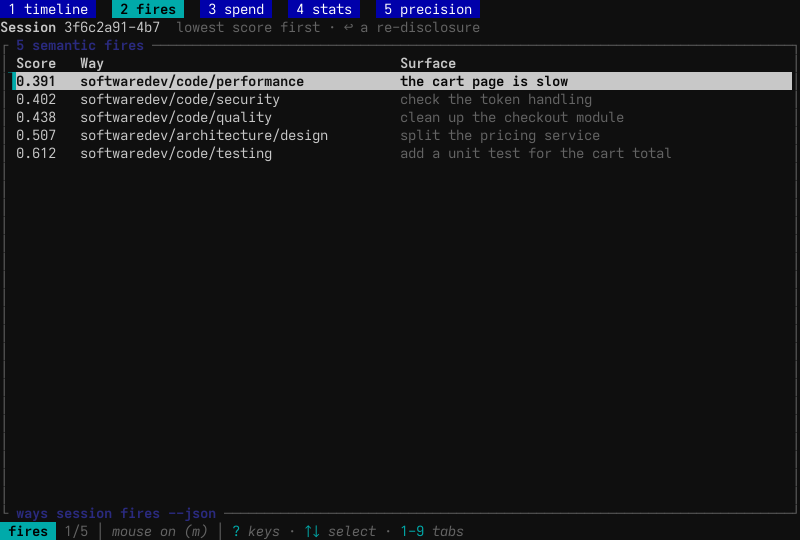
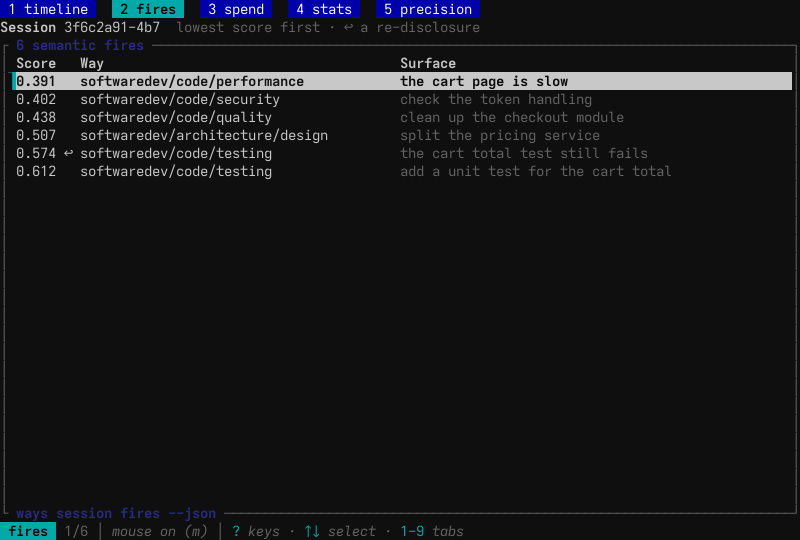
docs(cli): address review: screen keys by screen, per-verb flags, ↩ in fires text
- The shared-keys table and the Alt chords cover the session and
  projects screens. The settings screens take ? only, and type Alt
  chords into a filter or an edit.
- A 4xx other than 408 costs nothing.
- The ways session Run-from paragraph names which verbs take
  --project and --all, and what reset --all means.
- Plain-text `ways session fires` marks a re-disclosure ↩, as the
  screen does; the JSON keeps redisclosed. A test pins both.
- The timeline fit test adds a mid-session case that draws the
  forecast's arrows, markers and scale.
- Nits: "checked again", colour roles in the settings tree, no
  shell-completion claim.

The screenshot tooling is committed under docs/images/ways/tools
(fixture.py, markers.sh, shots.sh, record.sh, env.sh), with relative
paths and its scratch tree under the ignored target/. The fires shot
is retaken from it with a re-disclosure row; the timeline and
session-ways shots reproduce byte for byte.

Changed region(s): [[0.5, 0.2667, 0.8438, 0.3259], [0.0938, 0.2963, 0.3438, 0.3259], [0.0, 0.2667, 0.0938, 0.3259]]

diff --git a/docs/images/ways/tools/fixture.py b/docs/images/ways/tools/fixture.py
@@ -1,0 +1,158 @@
+#!/usr/bin/env python3
+"""A synthetic HOME and XDG tree for the ways-cli reference screenshots.
+
+Project /home/dev/shop has four sessions. Session A fires ways in main and
+five subagents (a code-reviewer, a workflow member, two general-purpose
+agents and one with no meta.json), with every outcome the timeline marks.
+The judge's calls spread over several days for the spend tab. A second and
+third project fill the projects screen. No real ids or paths appear.
+
+Usage: fixture.py <dir>   (shots.sh runs it; <dir>/fx is rebuilt)
+"""
+import json, os, shutil, sys, time
+from datetime import datetime, timedelta
+
+REPO = os.path.abspath(os.path.join(os.path.dirname(__file__), "../../../.."))
+F = os.path.join(os.path.abspath(sys.argv[1]), "fx")
+shutil.rmtree(F, ignore_errors=True)
+HOME = os.path.join(F, "home")
+for d in ["home/.local/state/agent-ways", "home/.config/agent-ways", "home/.local/share", "home/.cache/agent-ways/agent", "run"]:
+    os.makedirs(os.path.join(F, d), exist_ok=True)
+
+PROJ = "/home/dev/shop"
+SLUG = "-home-dev-shop"
+A = "3f6c2a91-4b7e-4d10-9c55-2e8b7a1d0f42"
+B = "8a0d5e17-6c2f-4a93-b1e4-7f3c9d2a6b05"
+C = "c41b9f62-0e8d-4f37-a2c6-5d1e8b3a9f70"
+D = "e92f3a08-7d4c-4b16-8e5a-1c6b0d9f2e33"
+
+events = []
+
+def ev(ts, event, sid=A, proj=PROJ, **kw):
+    e = {"ts": ts, "event": event, "project": proj, "session": sid}
+    e.update({k: v for k, v in kw.items() if v is not None})
+    events.append(e)
+
+def fire(ts, way, trig, agent="main", sid=A, score=None, surface=None):
+    ev(ts, "way_fired", sid, way=way, trigger=trig, agent_id=agent,
+       fire_score=score, surface=surface)
+
+def judge(ts, way, p, verdict, agent="main", sid=A):
+    ev(ts, "way_judged", sid, way=way, p_yes=p, verdict=verdict, agent_id=agent, threshold="0.30",
+       mode="shadow" if verdict == "would_block" else "enforce", engine="anthropic",
+       model="claude-haiku-4-5", judge_ms="412")
+
+def call(ts, sid, tin, tout, cost, src="provider"):
+    ev(ts, "judge_call", sid, input_tokens=str(tin), output_tokens=str(tout),
+       cost_usd=cost, cost_source=src)
+
+CR = "a1b2c3d4e5f6a7b8c"   # code-reviewer
+WF = "a9e8d7c6b5a4f3e2d"   # workflow member audit:judge
+G1 = "a3897f0e1d2c3b4a5"   # general-purpose
+G2 = "a5c21e0f9d8c7b6a5"   # general-purpose
+UN = "a0123456789abcdef"   # no meta.json
+
+day = "2026-10-01T"
+ev(day + "10:00:00Z", "session_start")
+fire(day + "10:00:05Z", "softwaredev/code/testing", "semantic:embedding:en", score="0.612", surface="add a unit test for the cart total")
+call(day + "10:00:05Z", A, 1850, 12, "0.0021")
+fire(day + "10:02:00Z", "softwaredev/docs/adr", "file")
+fire(day + "10:04:00Z", "softwaredev/code/quality", "semantic:embedding:en", score="0.438", surface="clean up the checkout module")
+call(day + "10:04:00Z", A, 2210, 14, "0.0025")
+ev(day + "10:06:00Z", "check_fired", check="softwaredev/docs/adr", trigger="file", agent_id="main")
+ev(day + "10:06:01Z", "check_fired", check="softwaredev/docs/adr", trigger="file", agent_id="main")
+ev(day + "10:06:02Z", "check_fired", check="softwaredev/docs/adr", trigger="file", agent_id="main")
+ev(day + "10:06:03Z", "check_fired", check="softwaredev/docs/adr", trigger="file", agent_id="main")
+ev(day + "10:06:04Z", "check_fired", check="softwaredev/docs/adr", trigger="file", agent_id="main")
+fire(day + "10:08:00Z", "softwaredev/delivery/review", "keyword", agent=CR)
+fire(day + "10:08:01Z", "softwaredev/docs/adr", "file", agent=CR)
+fire(day + "10:08:02Z", "softwaredev/code/testing", "keyword", agent=WF)
+fire(day + "10:10:00Z", "softwaredev/environment/deps", "bash", agent=G1)
+fire(day + "10:10:01Z", "softwaredev/environment/deps", "bash", agent=G2)
+fire(day + "10:10:02Z", "softwaredev/code/security", "semantic:embedding:en", agent=UN, score="0.402", surface="check the token handling")
+call(day + "10:10:02Z", A, 1990, 11, "0.0022")
+fire(day + "10:12:00Z", "softwaredev/architecture/design", "semantic:embedding:en", score="0.507", surface="split the pricing service")
+judge(day + "10:12:00Z", "softwaredev/architecture/design", "0.880", "pass")
+call(day + "10:12:00Z", A, 2400, 13, "0.0027")
+ev(day + "10:14:00Z", "way_redisclosed", way="softwaredev/code/testing", trigger="semantic:embedding:en", agent_id="main",
+   fire_score="0.574", surface="the cart total test still fails")
+judge(day + "10:14:00Z", "softwaredev/code/performance", "0.140", "would_block")
+fire(day + "10:14:00Z", "softwaredev/code/performance", "semantic:embedding:en", score="0.391", surface="the cart page is slow")
+judge(day + "10:14:01Z", "itops/incident", "0.050", "block")
+call(day + "10:14:01Z", A, 2600, 12, "0.0029")
+call(day + "10:14:01Z", A, 0, 0, None, "unknown")
+ev(day + "10:14:02Z", "way_suppressed", way="softwaredev/docs/adr", trigger="file", agent_id=CR, kind="way", reason="refire")
+ev(day + "10:14:02Z", "way_suppressed", way="meta/knowledge", trigger="keyword", agent_id="main", kind="way", reason="context_cap")
+ev(day + "10:14:03Z", "check_fired", check="softwaredev/docs/adr", trigger="file", agent_id=CR)
+
+# Other sessions: a few fires and judge calls on other days.
+for sid, d, n in [(B, "2026-09-27", 6), (C, "2026-09-29", 9), (D, "2026-10-02", 4)]:
+    ev(d + "T09:00:00Z", "session_start", sid)
+    for i in range(n):
+        t = f"{d}T09:{10 + i:02d}:00Z"
+        fire(t, ["softwaredev/code/testing", "softwaredev/delivery/commits", "softwaredev/docs/adr"][i % 3],
+             "semantic:embedding:en", sid=sid, score=f"{0.42 + i * 0.03:.3f}", surface="fix the failing build")
+        call(t, sid, 1700 + 90 * i, 12, f"{0.0019 + 0.0001 * i:.4f}")
+# Two older months for the month view.
+for d in ["2026-08-12", "2026-08-20", "2026-09-03", "2026-09-15"]:
+    call(d + "T12:00:01Z", "b05e7c3d-1a9f-4e62-8d40-6f2c1b8e9a17", 2100, 12, "0.0024")
+events.sort(key=lambda e: e["ts"])
+with open(os.path.join(F, "home/.local/state/agent-ways/events.jsonl"), "w") as f:
+    for e in events:
+        f.write(json.dumps(e) + "\n")
+
+# Transcripts: assistant turns carrying usage, for the token gauge.
+def transcript(slug, sid, start, turns, cwd, mtime=None, title=None):
+    pd = os.path.join(HOME, ".claude/projects", slug)
+    os.makedirs(pd, exist_ok=True)
+    path = os.path.join(pd, sid + ".jsonl")
+    t0 = datetime.fromisoformat(start.replace("Z", "+00:00"))
+    with open(path, "w") as f:
+        f.write(json.dumps({"type": "user", "sessionId": sid, "cwd": cwd, "timestamp": start,
+                            "message": {"role": "user", "content": title or "work on the shop"}}) + "\n")
+        for i in range(turns):
+            ts = (t0 + timedelta(seconds=60 * i + 30)).strftime("%Y-%m-%dT%H:%M:%S.000Z")
+            usage = {"input_tokens": 400, "cache_creation_input_tokens": 2000,
+                     "cache_read_input_tokens": 40000 + 1200 * i, "output_tokens": 600}
+            f.write(json.dumps({"type": "assistant", "sessionId": sid, "cwd": cwd, "timestamp": ts,
+                                "message": {"role": "assistant", "model": "claude-opus-4-5", "usage": usage,
+                                            "content": [{"type": "text", "text": "ok"}]}}) + "\n")
+    if mtime is not None:
+        os.utime(path, (mtime, mtime))
+    return path
+
+now = time.time()
+transcript(SLUG, A, "2026-10-01T10:00:00Z", 16, PROJ, now - 3 * 86400, "add a unit test for the cart total")
+transcript(SLUG, B, "2026-09-27T09:00:00Z", 8, PROJ, now - 6 * 86400, "fix the failing build")
+transcript(SLUG, C, "2026-09-29T09:00:00Z", 10, PROJ, now - 4 * 86400, "tidy the release notes")
+transcript(SLUG, D, "2026-10-02T09:00:00Z", 5, PROJ, now - 20, "wire the payment webhook")
+
+# Subagent meta for session A.
+sub = os.path.join(HOME, ".claude/projects", SLUG, A, "subagents")
+os.makedirs(os.path.join(sub, "workflows/wf_audit"), exist_ok=True)
+for aid, typ in [(CR, "code-reviewer"), (G1, "general-purpose"), (G2, "general-purpose")]:
+    json.dump({"agentType": typ, "description": "a task"}, open(os.path.join(sub, f"agent-{aid}.meta.json"), "w"))
+json.dump({"agentType": "workflow-subagent", "description": "audit:judge", "workflowPhase": "Audit"},
+          open(os.path.join(sub, f"workflows/wf_audit/agent-{WF}.meta.json"), "w"))
+
+# Two more projects for the projects screen.
+transcript("-home-dev-notes", "5b7e1c90-2d4a-4f68-9e13-0a8c6f2b4d71", "2026-09-20T14:00:00Z", 6, "/home/dev/notes",
+           now - 13 * 86400, "outline the onboarding guide")
+transcript("-home-dev-infra", "71d3e5a2-9f0b-4c86-a4d7-3e1b8c0f6a29", "2026-09-30T08:00:00Z", 12, "/home/dev/infra",
+           now - 3.5 * 86400, "rotate the staging certificates")
+os.makedirs(os.path.join(HOME, ".claude/projects/-home-dev-scratch"), exist_ok=True)
+
+# The shipped ways, so the why view shows a way's text.
+os.makedirs(os.path.join(HOME, ".claude/hooks"), exist_ok=True)
+os.symlink(os.path.join(REPO, "hooks/ways"), os.path.join(HOME, ".claude/hooks/ways"))
+
+# A cached model list, so the gate's model key offers a picker.
+models = [{"id": i, "name": n, "input_per_mtok": p, "output_per_mtok": q} for i, n, p, q in [
+    ("claude-haiku-4-5", "Claude Haiku 4.5", 1.0, 5.0),
+    ("claude-sonnet-4-5", "Claude Sonnet 4.5", 3.0, 15.0),
+    ("claude-opus-4-5", "Claude Opus 4.5", 5.0, 25.0),
+    ("claude-3-5-haiku-latest", "Claude Haiku 3.5", 0.8, 4.0),
+]]
+json.dump({"provider": "anthropic", "fetched_at": int(now), "models": models},
+          open(os.path.join(F, "home/.cache/agent-ways/agent/models-anthropic.json"), "w"), indent=1)
+print(len(events), "events")

diff --git a/tools/ways-cli/src/cmd/render.rs b/tools/ways-cli/src/cmd/render.rs
@@ -46,7 +46,8 @@ const AGENT_W: usize = 12;
 const COL_GAP: usize = 2;
 const INDENT: usize = 2;
 /// The room the token gauge leaves after its bar for its label,
-/// ` 100% (1000K / 1000K)`, so the gauge line fits the terminal.
+/// ` 100% (1000K / 1000K)`, so the gauge line fits the terminal. The bar
+/// keeps at least 10 cells, so below about 33 columns the line still wraps.
 const GAUGE_LABEL_W: usize = 21;
 
 /// Nominal visible width of the fixed Epoch…Agent block that trails the Way
@@ -743,17 +744,29 @@ mod tests {
             Fired { token_k: 900, window_k: 120 },
             Fired { token_k: 960, window_k: 400 },
         ];
+        // Mid-session, ways ahead of the cursor spread the forecast over a
+        // real zoom: its arrows, markers and scale labels are drawn.
+        let mid = [
+            Fired { token_k: 500, window_k: 40 },
+            Fired { token_k: 520, window_k: 120 },
+            Fired { token_k: 540, window_k: 400 },
+        ];
         for width in [80, 100, 160] {
             let layout = Layout::for_id_width_in(3, width);
-            let pos = compute_bar_positions_in(&ways, 1000, layout.bar_width);
-            let unique = unique_positions(&pos);
-            let mut out = String::new();
-            write_token_timeline(&mut out, &ways, &unique, 1000, 1000, &layout);
-            assert!(out.contains("100% (1000K / 1000K)"), "{out}");
-            assert!(out.contains("approaching = near threshold"), "{out}");
-            for line in out.lines() {
-                let w = agent_fmt::visible_len(line);
-                assert!(w <= width, "{w} columns at {width}: {line:?}");
+            for (ways, current, gauge) in [(&ways, 1000, "100% (1000K / 1000K)"), (&mid, 550, "55% (550K / 1000K)")] {
+                let pos = compute_bar_positions_in(ways, 1000, layout.bar_width);
+                let unique = unique_positions(&pos);
+                let mut out = String::new();
+                write_token_timeline(&mut out, ways, &unique, current, 1000, &layout);
+                assert!(out.contains(gauge), "{out}");
+                assert!(out.contains("approaching = near threshold"), "{out}");
+                if current == 550 {
+                    assert!(out.contains("Forecast") && out.contains("550K") && out.contains('^'), "{out}");
+                }
+                for line in out.lines() {
+                    let w = agent_fmt::visible_len(line);
+                    assert!(w <= width, "{w} columns at {width}: {line:?}");
+                }
             }
         }
     }

diff --git a/tools/ways-cli/src/cmd/introspect/mod.rs b/tools/ways-cli/src/cmd/introspect/mod.rs
@@ -427,7 +427,7 @@ fn fires_report(content: &str, session_id: &str, max_score: Option<f64>, limit: 
         max_score.map(|c| format!(" · ≤ {c:.2}")).unwrap_or_default(),
     );
     for f in rows.into_iter().take(shown) {
-        let mark = if f.redisclosed { "↻" } else { " " };
+        let mark = if f.redisclosed { "↩" } else { " " };
         let _ = writeln!(out, "  {:.3} {mark} {:<44}  {}", f.score, f.way, f.surface);
     }
     if shown < total {
@@ -479,6 +479,21 @@ mod fires_tests {
         assert!(matched.contains("2 kept out by the relevance judge in this session:\n  P(yes) 0.05 < 0.30  d/b\n  P(yes) 0.05 < 0.30  d/b/c (with d/b)\n"), "{matched}");
         let none = fires_report(LOG, "other", None, None, true);
         assert!(none.contains("No semantic fires") && none.contains("No way was kept out"), "{none}");
+    }
+
+    /// The text marks a re-disclosure `↩`, as the screen does; the JSON
+    /// carries it as `redisclosed`.
+    #[test]
+    fn a_re_disclosure_is_marked_as_the_screen_marks_it() {
+        let log = concat!(
+            r#"{"event":"way_fired","session":"s","ts":"2026-01-01T00:00:00Z","way":"d/a","trigger":"semantic:embedding:en","fire_score":"0.410","surface":"prompt"}"#, "\n",
+            r#"{"event":"way_redisclosed","session":"s","ts":"2026-01-01T00:09:00Z","way":"d/a","trigger":"semantic:embedding:en","fire_score":"0.520","surface":"again"}"#, "\n",
+        );
+        let text = fires_report(log, "s", None, None, false);
+        assert!(text.contains("  0.410   d/a") && text.contains("  0.520 ↩ d/a"), "{text}");
+        assert!(!text.contains('↻'), "{text}");
+        let j = fires_json(log, "s", None, None, false);
+        assert_eq!(j["fires"][1]["redisclosed"], true, "{j}");
     }
 
     /// The JSON form carries what the text does, as data: the fires lowest

diff --git a/docs/reference/ways-cli.md b/docs/reference/ways-cli.md
@@ -12,16 +12,18 @@ Bare `ways` prints this help, under the banner on a terminal. When the relevance
 
 `ways settings`, `ways session`, `ways projects`, `ways agent` and `ways target` open a full-screen view when run bare on a terminal. Each screen is a view over commands that print the same data with `--json`. A table's bottom border names its command, with the scope the screen is showing, so an agent can read what the operator sees. In a pipe, each prints its help or its default listing instead.
 
-All screens share these keys:
+The session and projects screens share these keys:
 
 | Key | Does |
 |---|---|
 | `1`-`9` | Show that tab. A click on a tab shows it too. |
 | `?` or F1 | Open the key help for the screen and the current tab. Any other key closes it. |
 | `m` | Turn mouse capture on or off. With it off, the terminal selects text and a middle-click pastes. With it on, Shift-drag selects text in most terminals. |
-| `q`, Esc, ^C | Quit. With unsaved work, the screen asks first. Esc first leaves an inner view, such as a filter or the why page. |
+| `q`, Esc, ^C | Quit. Esc first leaves an inner view, such as a filter or the why page. |
 
-While a text field has the keyboard, such as a filter or a value being edited, the shell's letter and digit keys take Alt: `M-1`-`M-9` for tabs and `M-m` for the mouse. The footer shows the form in effect.
+While the projects filter has the keyboard, these keys take Alt: `M-1`-`M-9` for tabs and `M-m` for the mouse, and F1 opens the key help. The footer shows the form in effect.
+
+The settings screens have their own keys, listed under [settings screens](#settings-screens). Their key help opens with `?` only, and in a filter or an edit every key, Alt chords included, is typed into the field.
 
 ## `ways status`
 
@@ -95,7 +97,7 @@ Each tab is a tree of settings on the left and the selected key's detail on the 
 | `w` or ^S | Review this tab's pending items, read-only. In the review, `a` applies the tab, `X` discards it, Tab goes to the next tab and Esc goes back. |
 | `X` | Discard this tab's pending items, after a y/n confirm. |
 
-In the tree, yellow marks a changed value, blue a value that differs from its default, grey a read-only row and orange a queued action. `[a]` marks a row with actions and `!` a lint finding.
+In the tree, colour marks a row's state: a changed value, a value that differs from its default, a read-only row, a queued action. The `?` help names the colours of the theme in use. `[a]` marks a row with actions and `!` a lint finding.
 
 Some tabs have keys of their own, which the footer names. On the ways tab, `s` sets up agent-ways in a project, and `p` switches between this project's and all projects' switched-off ways. On the install tab, `t` activates a target, `A` adds one and `p` shows a target's plan (see [`ways target`](#ways-target)). On the theme tab, ↑↓ previews a theme and Enter uses it.
 
@@ -171,7 +173,7 @@ What the judge does, what it sends and how to watch it are explained in [the rel
 
 **Tells you:** The judge's provider calls with their tokens and cost in USD, as a total and one row per day. `--by month`, `session` or `project` groups them otherwise. `--project <path>` keeps one project's calls, matched as [`ways session`](#ways-session) matches a project, and `--since <YYYY-MM-DD>` and `--session <id>` narrow further. `--json` prints the total, all four groupings and `covers_since`, with `cost_usd` null for a group whose calls all have unknown cost.
 
-The hook logs each call as one `judge_call` event in `events.jsonl`, beside the `way_judged` events the call produced. OpenRouter reports each call's cost, and a request a provider refuses with a 4xx costs nothing. An Anthropic call is priced from its tokens at the profile's `price_in_per_mtok` and `price_out_per_mtok`, which apply as a pair. When those are unset, it is priced at Claude Haiku 4.5's list price for that model. A call that returned no usage, such as one that hit its deadline, or one with no price for its model, has unknown cost: it is counted apart and never summed as zero. The events log keeps its newest 24 MiB, so older calls drop out; when that bounds the query, the text ends with the date of the earliest judge call the log still holds.
+The hook logs each call as one `judge_call` event in `events.jsonl`, beside the `way_judged` events the call produced. OpenRouter reports each call's cost, and a request a provider refuses with a 4xx other than 408 costs nothing. An Anthropic call is priced from its tokens at the profile's `price_in_per_mtok` and `price_out_per_mtok`, which apply as a pair. When those are unset, it is priced at Claude Haiku 4.5's list price for that model. A call that returned no usage, such as one that hit its deadline, or one with no price for its model, has unknown cost: it is counted apart and never summed as zero. The events log keeps its newest 24 MiB, so older calls drop out; when that bounds the query, the text ends with the date of the earliest judge call the log still holds.
 
 ```
 ways agent cost                          # spend per day
@@ -228,7 +230,7 @@ Bare `ways projects` on a terminal opens the projects screen. In a pipe it runs 
 
 **When:** Seeing which ways fired in a session and why, following the current session as ways fire, switching ways off for a session's subagents, or clearing a session's state.
 
-**Run from:** The project directory, which scopes the sessions to that project and the paths under it. An agent's worktree in `.claude/worktrees/` counts toward its project; `/a/foo-bar` is not part of `/a/foo`. The tune commands and `ways agent cost --project` match a project the same way. A relative `--project`, such as `.`, is resolved against the working directory. With no `--session`, the default session is the newest at the project itself, else the newest under it. `--project <dir>` picks another project and `--all` takes every project. When the current project cannot be detected, the command fails rather than reading every project.
+**Run from:** The project directory, which scopes the sessions to that project and the paths under it. An agent's worktree in `.claude/worktrees/` counts toward its project; `/a/foo-bar` is not part of `/a/foo`. The tune commands and `ways agent cost --project` match a project the same way. A relative `--project`, such as `.`, is resolved against the working directory. With no `--session`, the default session is the newest at the project itself, else the newest under it. `--project <dir>` picks another project on `replay`, `live`, `list`, `dump` and `fires`, and `--all` takes every project on `replay`, `list`, `dump` and `fires`. `ways` and `subagents` take neither: they read the current session or `--session`. On `reset`, `--all` means every session's state. When the current project cannot be detected, the command fails rather than reading every project.
 
 **Tells you:** Depends on the verb.
 
@@ -300,7 +302,7 @@ A session whose transcript Claude Code wrote within the last two minutes is live
 | Enter | Open the session on the timeline: `follow` on a live one, `replay` otherwise. A click on the selected row does the same. |
 | PgUp PgDn Home End | Move by a page or to an end. |
 
-Liveness comes from `stat` alone, never a read of the transcript. The list stats each transcript once when it is built, then re-stats each on its own interval: 2s after a write, doubling while it stays quiet, up to 60s. A transcript last written more than a day ago is not re-stated while the list is open.
+Liveness comes from `stat` alone, never a read of the transcript. The list stats each transcript once when it is built, then re-stats each on its own interval: 2s after a write, doubling while it stays quiet, up to 60s. A transcript last written more than a day ago is not checked again while the list is open.
 
 #### Timeline tab
 
@@ -682,7 +684,7 @@ ways uninstall --yes --purge   # also your config and state
 
 ## Plumbing
 
-The hooks call these. They are hidden from `ways --help` and from shell completion, and their names stay fixed because processes that do not reload with the binary call them ([ADR-507](../architecture/platform/ADR-507-the-ways-commands-regroup-into-operator-commands-and-six-groups-names-another-process-calls-stay-fixed.md)). They are safe to call by hand when testing a way or a custom hook.
+The hooks call these. They are hidden from `ways --help`, and their names stay fixed because processes that do not reload with the binary call them ([ADR-507](../architecture/platform/ADR-507-the-ways-commands-regroup-into-operator-commands-and-six-groups-names-another-process-calls-stay-fixed.md)). They are safe to call by hand when testing a way or a custom hook.
 
 | Command | Used by |
 |---|---|
